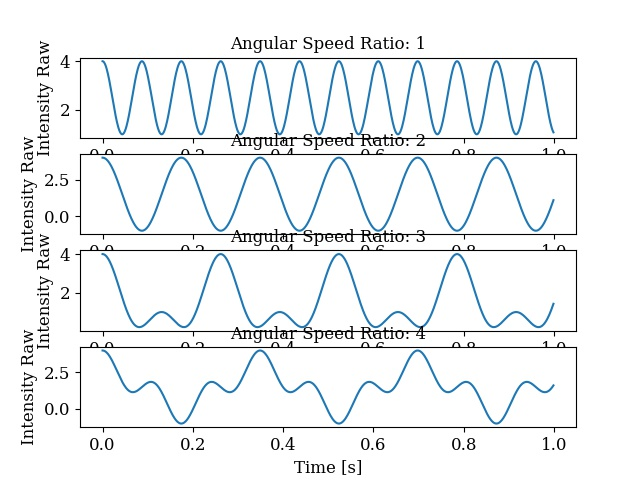
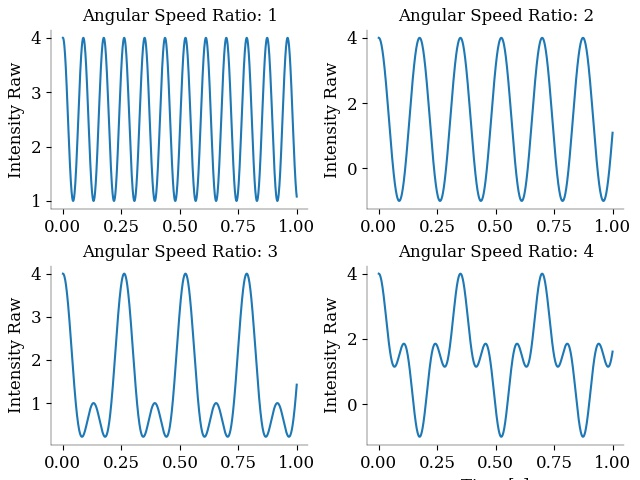
7th Edition: Fixed some bugs associated with MM

Changed region(s): [[0.0, 0.0, 1.0, 1.0]]

diff --git a/muller_standard_elements.py b/muller_standard_elements.py
@@ -7,67 +7,52 @@ from scipy.fftpack import fft, ifft, fftshift
 
 
 class MullerOperators:
-
     """
     The class was written to imitate elements of optical setup.
     See function transfer matrix on how to use class.
     """
 
-    def __init__(self, teta, sigma):
+    def __init__(self, teta, sigma, pl_type):
 
         self.teta = teta
         self.sigma = sigma
         self.sign = 1
         self.sign2 = -1
+        self.pl_type = pl_type
 
-    def wave_pallet(self):
+    def wave_plate(self):
 
-        r_0 = self.rotation_matrix2()
-        r_1 = self.rotation_matrix1()
+        r_0 = self.rotation_matrix(-1)
+        r_1 = self.rotation_matrix(1)
         matrix = self.retardance_matrix()
 
         return r_0 @ matrix @ r_1
 
     def linear_polarizer(self):
 
-        r_0 = self.rotation_matrix2()
-        r_1 = self.rotation_matrix1()
-        matrix = self.muller_matrix('LP')
+        # r_0 = self.rotation_matrix(-1)
+        # r_1 = self.rotation_matrix(1)
+        r_0 = np.array(self.muller_matrix('sti1'))
+        r_1 = np.array(self.muller_matrix('sti1'))
+        matrix = np.array(self.muller_matrix(self.pl_type))
 
-        return (r_0 @ matrix @ r_1)/2
+        return matrix #r_0 @ matrix @ r_1
 
-    def rotation_matrix1(self) -> np.ndarray:
+    def rotation_matrix(self, sign) -> np.ndarray:
 
-        a = np.cos(2 * self.teta * self.sign)
-        b = np.sin(2 * self.teta * self.sign)
-
-        rotate = np.array([[1, 0, 0, 0],
-                           [1, a, b, 0],
-                           [0, -b, a, 0],
-                           [0, 0, 0, 1]], np.float64)
-        return rotate
-
-    def rotation_matrix2(self) -> np.ndarray:
-
-        a = np.cos(2 * self.teta * self.sign2)
-        b = np.sin(2 * self.teta * self.sign2)
+        a = np.cos(2 * self.teta * sign)
+        b = np.sin(2 * self.teta * sign)
 
         rotate = np.array([[1, 0, 0, 0],
-                           [1, a, b, 0],
+                           [0, a, b, 0],
                            [0, -b, a, 0],
                            [0, 0, 0, 1]], np.float64)
         return rotate
 
     def retardance_matrix(self) -> np.ndarray:
 
-        if self.teta != 0:    # this was written just to check and needs to be removed when real optics are calibrated
-
-           a = np.cos(2 * self.sigma)
-           b = np.sin(2 * self.sigma)
-
-        else:
-            a = 1
-            b = 0
+        a = np.cos(self.sigma)
+        b = np.sin(self.sigma)
 
         retardance = np.array([[1, 0, 0, 0],
                                [0, 1, 0, 0],
@@ -76,25 +61,32 @@ class MullerOperators:
         return retardance
 
     @staticmethod
-    def muller_matrix(operator: str) -> defaultdict:
+    def muller_matrix(operator: str) -> defaultdict:                         # Dictionary of passive elements
 
         muller = defaultdict()
-        muller['LP'] = np.array([[1, 1, 0, 0],
-                                 [1, 1, 0, 0],
-                                 [0, 0, 0, 0],
-                                 [0, 0, 0, 0]], np.float64)
+        muller['LP_0'] = np.array([[1, 1, 0, 0],
+                                  [1, 1, 0, 0],
+                                  [0, 0, 0, 0],
+                                  [0, 0, 0, 0]], np.float64)
+
+        muller['LP_90'] = np.array([[1, -1, 0, 0],
+                                   [-1, 1, 0, 0],
+                                   [0, 0, 0, 0],
+                                   [0, 0, 0, 0]], np.float64)
+
+        muller['sti1'] = np.array([[1, 0, 0, 0],
+                                   [0, 1, 0, 0],
+                                   [0, 0, 1, 0],
+                                   [0, 0, 0, 1]], np.float64)
 
         # additional elements should be added here to be used in the simulation
-        # muller['wp'] = np.array([[1, 0, 0, 0],
-        #                          [0, 1, 0, 0],
-        #                          [0, 0, 0, 0],
-        #                          [0, 0, 0, 0]], np.float64)
-
         return muller[operator]
 
 
-def transfer_matrix(angle1: any,
-                    angle2: any,
+def transfer_matrix(theta1: any,
+                    theta2: any,
+                    retardance1: any,
+                    retardance2: any,
                     incident: np.ndarray) -> np.ndarray:    # Muller matrix of the sample could be added
     """
     This function uses muller operations from the
@@ -111,19 +103,18 @@ def transfer_matrix(angle1: any,
     ______
     transform: Stoke vector of the light at detector
     """
-    t_1 = MullerOperators(angle1, 0)
-    w_1 = t_1.wave_pallet()                         # wave pallet transfer matrix at specified angle
+    # retardance  = (angle1 - angle2)
+    t_1 = MullerOperators(theta1, retardance1, 'LP_0')
+    w_1 = t_1.wave_plate()                          # wave pallet transfer matrix at specified angle
     p_1 = t_1.linear_polarizer()                    # linear polarizer transfer matrix at specified angle
-    t_2 = MullerOperators(angle2, 0)
-    w_2 = t_2.wave_pallet()                         # wave pallet transfer matrix at specified angle
+    t_2 = MullerOperators(theta2, retardance2, 'LP_90')
+    w_2 = t_2.wave_plate()                          # wave pallet transfer matrix at specified angle
     p_2 = t_2.linear_polarizer()                    # linear polarizer transfer matrix at specified angle
 
-    s_0 = [1, 0, 0, 0]
+    transform = p_2 @ w_2 @ w_1 @ p_1 @ incident
+    transform1 = np.matmul(p_2, np.matmul(w_2, np.matmul(w_1, np.matmul(p_1, incident))))
 
-    transform = s_0 @ p_2 @ w_2 @ w_1 @ p_1 @ incident
-    transform1 = s_0 @ p_2 @ p_1 @ incident
-
-    return transform
+    return transform[0]
 
 
 def generate_rotation(t: np.ndarray,
@@ -143,41 +134,44 @@ def generate_rotation(t: np.ndarray,
     if not inverse:
         return w*t
     else:
-        return 360 - w*t % 360
+        return -w*t     # 360 - w*t % 360
 
 
-s_0 = [1, 0, 0, 0]                                                      # initial stoke vector
-s_0 = np.transpose(s_0)
+def run_simulation() -> tuple:                                              # Inputs are fixed for now
 
-t_experiment = 1
-sampling_rate = 1000                                                    # [frames/second]
-time = np.arange(0, t_experiment, 1/(sampling_rate * t_experiment))
+    s_0 = [1, 0, 0, 0]                                                      # initial stoke vector
+    s_0 = np.transpose(s_0)
 
-omega_1 = 36  # Angular speed in [deg/second]
-max_ratio = 5
-store_results = defaultdict()
-b = []
+    t_experiment = 2
+    sampling_rate = 100                                                     # [frames/second]
+    time = np.arange(0, t_experiment, 1/(sampling_rate * t_experiment))
 
-for k in tqdm(range(1, max_ratio)):
-
-    omega_2 = omega_1 / k                                                # Angular speed in [deg/second]
-    theta1 = generate_rotation(time, omega_1, inverse=False)
-    theta2 = generate_rotation(time, omega_2, inverse=False)
-
-    for i, j in enumerate(time):
-
-        l = transfer_matrix(theta1[i], theta2[i], s_0)
-        b.append(l)
-
-    store_results[k-1] = b
+    omega_1 = 5                                                            # Angular speed in [deg/second]
+    max_ratio = 10
+    store_results = defaultdict()
     b = []
 
+    for k in range(1, max_ratio):
 
-# X = fft(store_results[2], axis=0)
-# X = 2*np.abs(X) / (sampling_rate * t_experiment)
+        omega_2 = omega_1 * k                                               # Angular speed in [deg/second]
+        theta1 = generate_rotation(time, omega_1, inverse=False)
+        theta2 = generate_rotation(time, omega_2, inverse=False)
 
-# plt.plot(time, store_results[1])
-plot_ratios(time, max_ratio, store_results)
+        for i, j in enumerate(time):
+
+            l = transfer_matrix(theta1[i], theta2[i], 133, 71, s_0)
+            b.append(l)
+
+        store_results[k-1] = b
+        b = []
+
+    return store_results, time
+
+
+results, time = run_simulation()
+plot_ratios(time, 5, results)
+
+
 # for i in range(1, max_ratio):
 #
 #     plt.subplot(max_ratio - 1, 1, i)

diff --git a/run_simulation_without_data_ideal_consitions.py b/run_simulation_without_data_ideal_consitions.py
@@ -1,0 +1,63 @@
+from fourier_transforms import fourier_coeffs, f_series, LagrangePoly     # helper functions
+from fourier_transforms import f_series2, f_residual, f_annealing, f_sgd
+from inerpolation_methods import whittaker_shannon_interpolation
+from muller_standard_elements import run_simulation
+from scipy.signal import find_peaks
+from scipy.fftpack import fft, ifft, fftshift
+from scipy.optimize import leastsq, basinhopping, differential_evolution
+import numpy as np
+from matplotlib import pyplot as plt                                      # graphing utilities
+from plot_helper import plot_initial_signal_single,\
+    plot_initial_signal_double, plot_shannon_single, set_rc
+import pandas as pd                                                       # data acquisition
+from tqdm import tqdm
+
+
+a_0s = []
+a_0bs = []
+a_1bs = []
+a_2bs = []
+freqs = []
+t_experiment = 2
+sampling_rate = 100  # [frames/second]
+time = np.arange(0, t_experiment, 1 / (sampling_rate * t_experiment))
+
+y_m_new, x_m_new = run_simulation()
+X = fft(y_m_new[2], axis=0)
+
+X = 2*np.abs(X) / (sampling_rate * t_experiment)
+plt.plot(X)
+plt.show()
+plt.plot(time, y_m_new[1])
+
+for shift in tqdm(range(3, 4)):
+
+    y_m_new = y_m_new[shift]
+    x_initial_basin = np.ones(10)*0
+    func = lambda x: f_annealing(x, x_m_new, y_m_new)
+    minimizer_kwargs = {"method": "L-BFGS-B"}
+    basinhop = basinhopping(func, x_initial_basin, minimizer_kwargs=minimizer_kwargs, niter=500)
+    x_initial_leven = np.ones(10)*20
+    leastsq_x = leastsq(f_residual, x_initial_leven, args=(x_m_new, y_m_new), maxfev=1000)
+    a_0bs.append(basinhop.x[0])
+    a_1bs.append(basinhop.x[1])
+    a_2bs.append(basinhop.x[2])
+    freqs.append(basinhop.x[-1])
+    # a_0bs.append(diff_evo.x)
+
+
+print(freqs)
+# plt.plot(a_0bs)
+# plt.plot(a_1bs)
+# plt.plot(a_2bs)
+# plt.show()
+
+plt.plot(x_m_new, f_series2(leastsq_x[0], x_m_new), label="Fourier Series Levenberg-Marquardt")
+plt.plot(x_m_new, f_series2(basinhop.x, x_m_new), label="Fourier Series Heuristics (Simulated Annealing)")
+# plt.plot(x_m_new, f_series2(var.numpy, x_m_new), label="Fourier Series Heuristics (SGD)")
+
+plt.scatter(x_m_new, y_m_new, s=2, marker='o', label="Resampled Data (Whittaker-Shannon)")
+plt.xlabel("t")
+plt.ylabel("Intensity")
+plt.legend(loc='upper right')
+plt.show()

diff --git a/plot_helper.py b/plot_helper.py
@@ -45,7 +45,7 @@ def set_rc2(func):
     def wrapper(*args, **kwargs):
         rc('font', family='serif', size=fontsize)
         # rc('figure', dpi=500)
-        rc('axes', axisbelow=True, titlesize=5)
+        rc('axes', axisbelow=True, titlesize=12)
         rc('lines', linewidth=1.5)
         func(*args, **kwargs)
     return wrapper
@@ -193,12 +193,19 @@ def plot_ratios(t:np.ndarray,
                 results: dict):
 
     for i in range(1, max_ratio):
-        plt.subplot(max_ratio - 1, 1, i)
+
+        ax = plt.subplot((max_ratio - 1)//2, (max_ratio - 1)//2, i)
+        ax.spines['left'].set_linewidth(0.3)
+        ax.spines['bottom'].set_linewidth(0.3)
+        ax.spines['right'].set_color('none')
+        ax.spines['top'].set_color('none')
         plt.title('Angular Speed Ratio: {}'.format(i), size=fontsize)
         plt.plot(t, results[i - 1])
         plt.ylabel("Intensity Raw")
+        plt.tight_layout(pad=.5)
+        plt.grid(False)
 
     # plt.stem(X)
     plt.xlabel("Time [s]")
-    plt.savefig("ratios.jpeg")
+    plt.savefig("ratios2.jpeg")
     plt.show()

diff --git a/fourier_transforms.py b/fourier_transforms.py
@@ -121,7 +121,7 @@ def f_series2(x: np.ndarray,
     # Interpretation of optimization parameters
     a_0, a_k, b_k  = x[0], x[1:5], x[5:9]
     freq = x[9]
-    phi = 90
+    phi = 0
     # function evaluation
     f = [(a_k[i - 1] * np.cos(2 * np.pi * i * t * freq + phi) + b_k[i - 1]
           * np.sin(2 * np.pi * i * t * freq + phi)) for i in range(1, len(a_k) + 1)]
